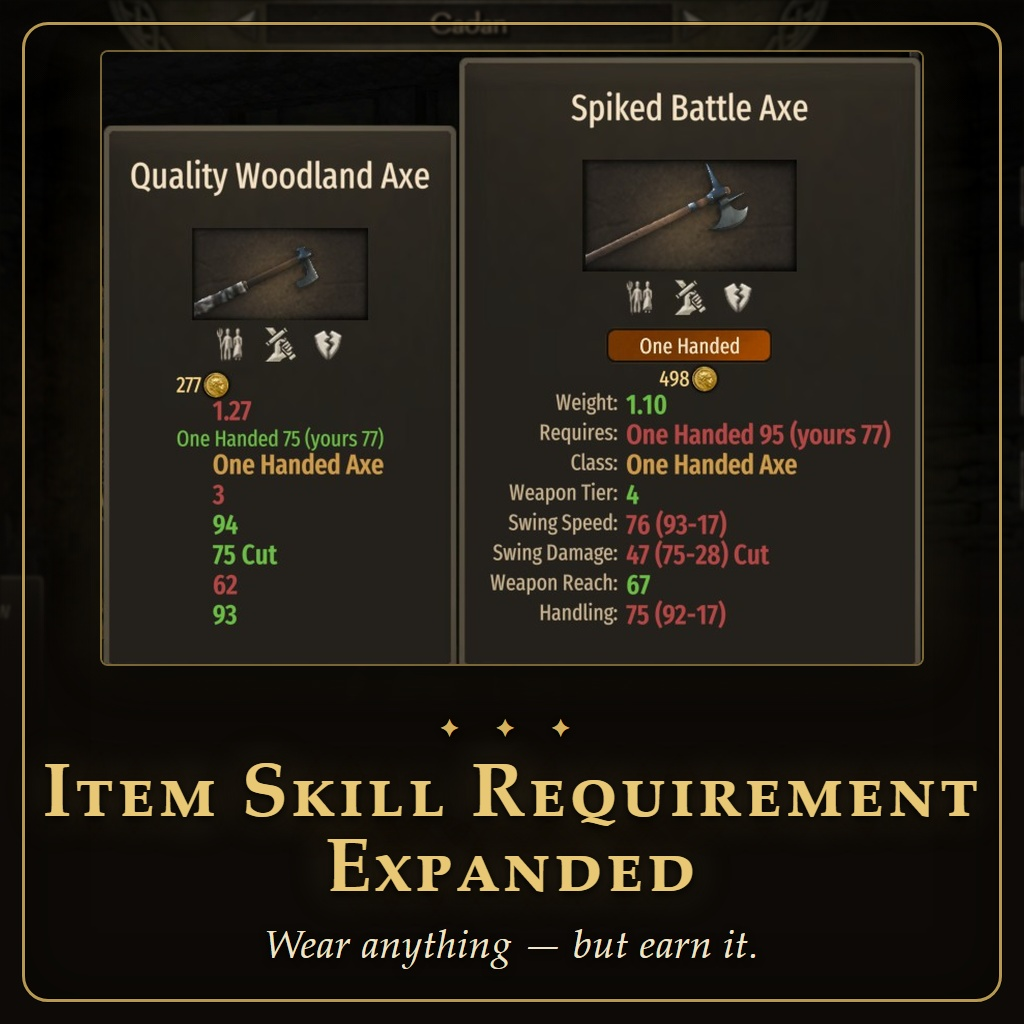
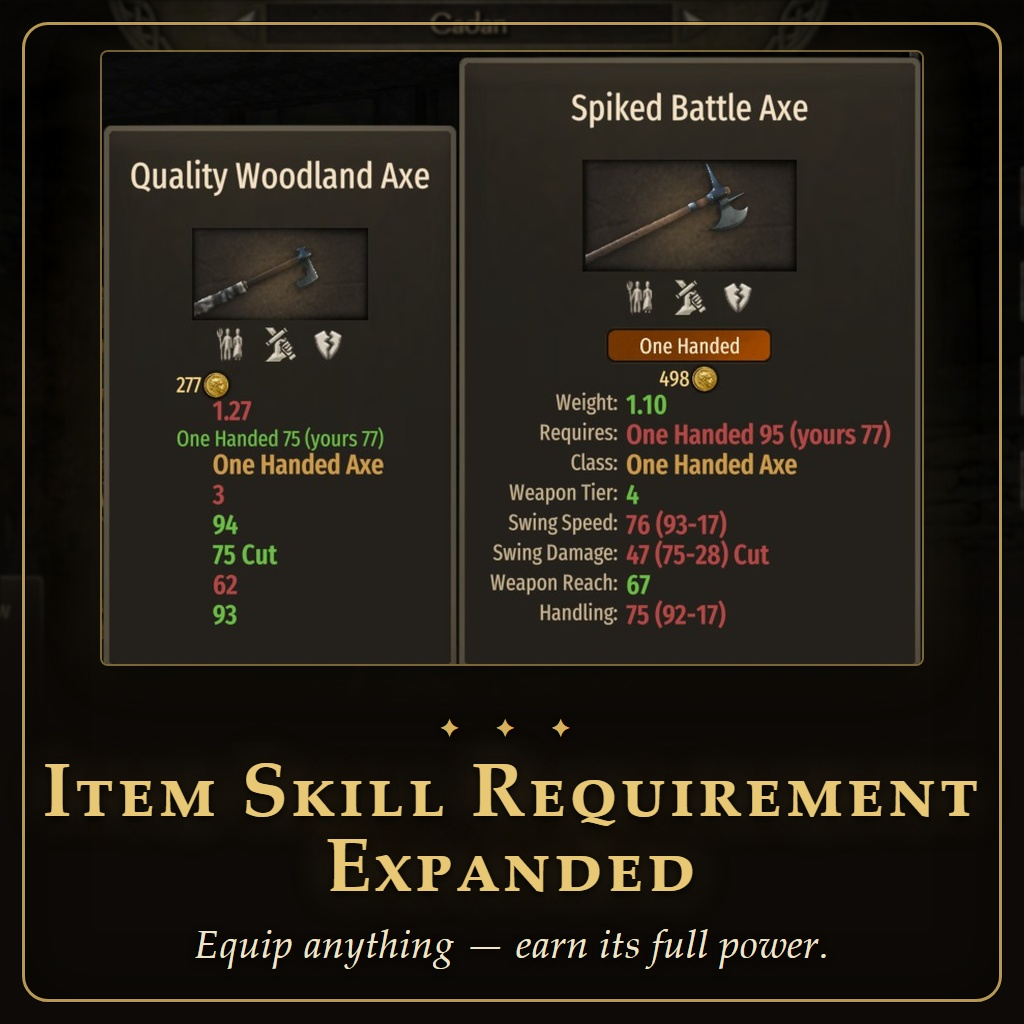
Tagline 'Equip anything - earn its full power.', v1.0.0, paths after folder rename

Changed region(s): [[0.1875, 0.9062, 0.8125, 0.9375]]

diff --git a/tools/preview_thumbnail.html b/tools/preview_thumbnail.html
@@ -75,7 +75,7 @@
     <div class="titleblock">
       <div class="ornament">✦ ✦ ✦</div>
       <h1>Item Skill Requirement<br>Expanded</h1>
-      <div class="tagline">Wear anything — but earn it.</div>
+      <div class="tagline">Equip anything — earn its full power.</div>
     </div>
   </div>
 </body>

diff --git a/tools/WORKSHOP-UPLOAD.md b/tools/WORKSHOP-UPLOAD.md
@@ -7,12 +7,9 @@ Steam client.
 Item: **not created yet**. (Account note: since 2026-10-10 new uploads from this account go hidden
 "awaiting approval" - see `MODS-STATUS.md`, "The Steam block".)
 
-If the repo folder has been renamed (gear-mastery -> item-skill-requirement-expanded), fix the two paths in
-`WorkshopCreate.xml` and the path in the command below first.
-
 ## Before either upload
 
-1. Pick the release version in `module\SubModule.xml` (`<Version value="v0.1.0" />` today).
+1. Pick the release version in `module\SubModule.xml` (`<Version value="v1.0.0" />` today).
 2. Package and refresh the thumbnail if the screenshots changed:
 
 ```powershell
@@ -35,7 +32,7 @@ python tools\make_thumbnail.py
 ## Steam Workshop: first upload (creates the item - once only)
 
 ```powershell
-& "C:\Program Files (x86)\Steam\steamapps\common\Mount & Blade II Bannerlord\bin\Win64_Shipping_Client\TaleWorlds.MountAndBlade.SteamWorkshop.exe" "C:\Users\Asus ROG\Documents\BannerlordMods\gear-mastery\tools\WorkshopCreate.xml"
+& "C:\Program Files (x86)\Steam\steamapps\common\Mount & Blade II Bannerlord\bin\Win64_Shipping_Client\TaleWorlds.MountAndBlade.SteamWorkshop.exe" "C:\Users\Asus ROG\Documents\BannerlordMods\item-skill-requirement-expanded\tools\WorkshopCreate.xml"
 ```
 
 Run it from a scratch folder (it drops `steam_appid.txt` and a log where it runs). Success = "Uploading done!" in
